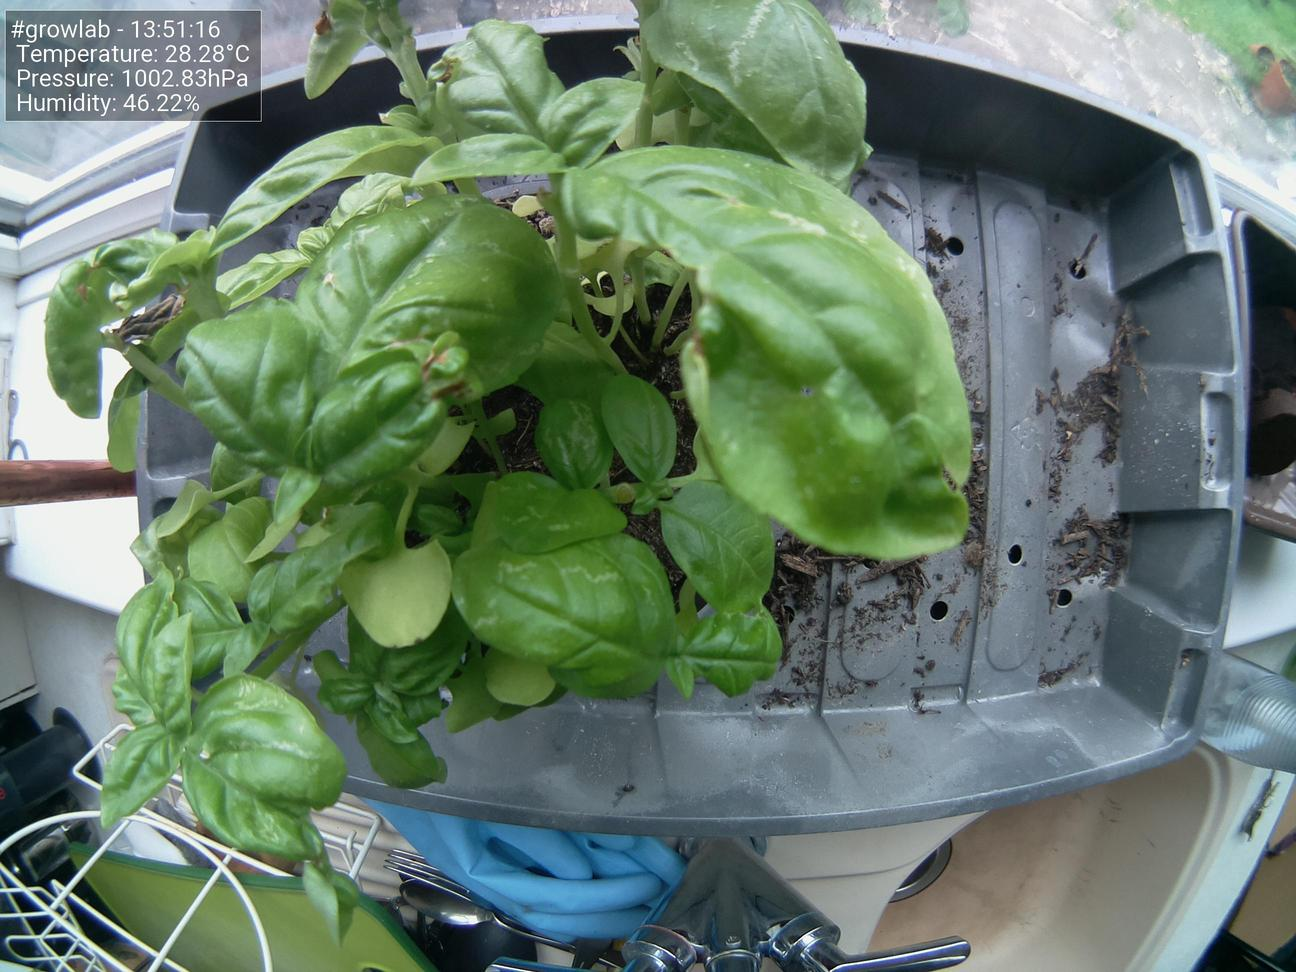
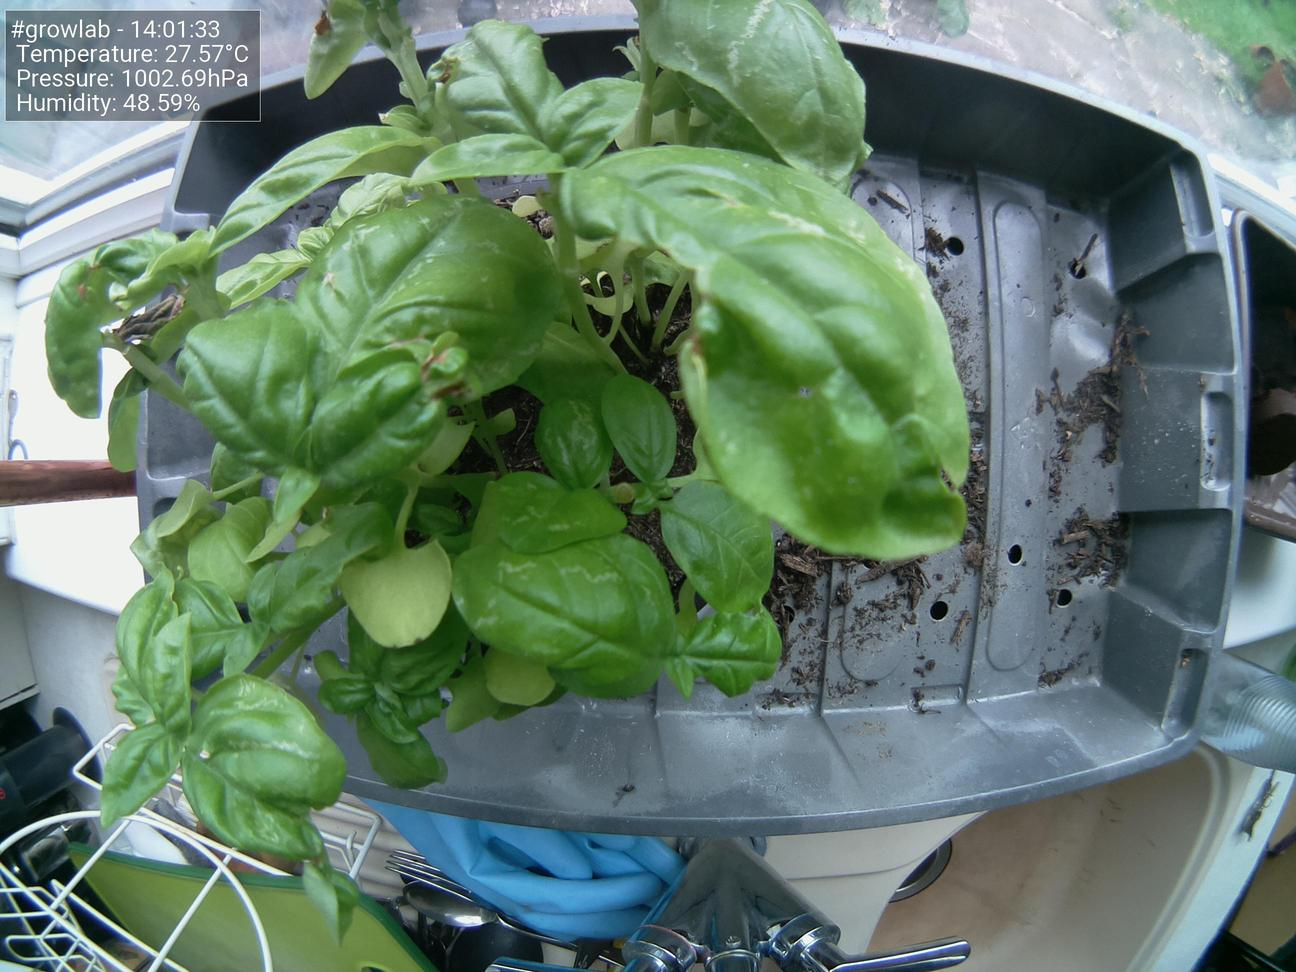
Update images at Thu  5 Aug 14:01:43 BST 2021

diff --git a/docs/index.html b/docs/index.html
@@ -47,19 +47,19 @@
                         <tbody>
                             <tr>
                                 <td>Time</td>
-                                <td>13:51:16</td>
+                                <td>14:01:33</td>
                             </tr>
                             <tr>
                                 <td>Temperature</td>
-                                <td>28.28°C</td>
+                                <td>27.57°C</td>
                             </tr>
                             <tr>
                                 <td>Humidity</td>
-                                <td>46.22%</td>
+                                <td>48.59%</td>
                             </tr>
                             <tr>
                                 <td>Pressure</td>
-                                <td>1002.83hPa</td>
+                                <td>1002.69hPa</td>
                             </tr>
                         </tbody>
                     </table>
@@ -67,7 +67,7 @@
 
                 <h5>Latest image</h5>
                 <div style="width: 85%;">
-                            <img class="figure-img img-fluid rounded" src="./preview.jpg?uid=1628167884.9301856">
+                            <img class="figure-img img-fluid rounded" src="./preview.jpg?uid=1628168502.5785854">
                 </div>
             </div>
         </div>
